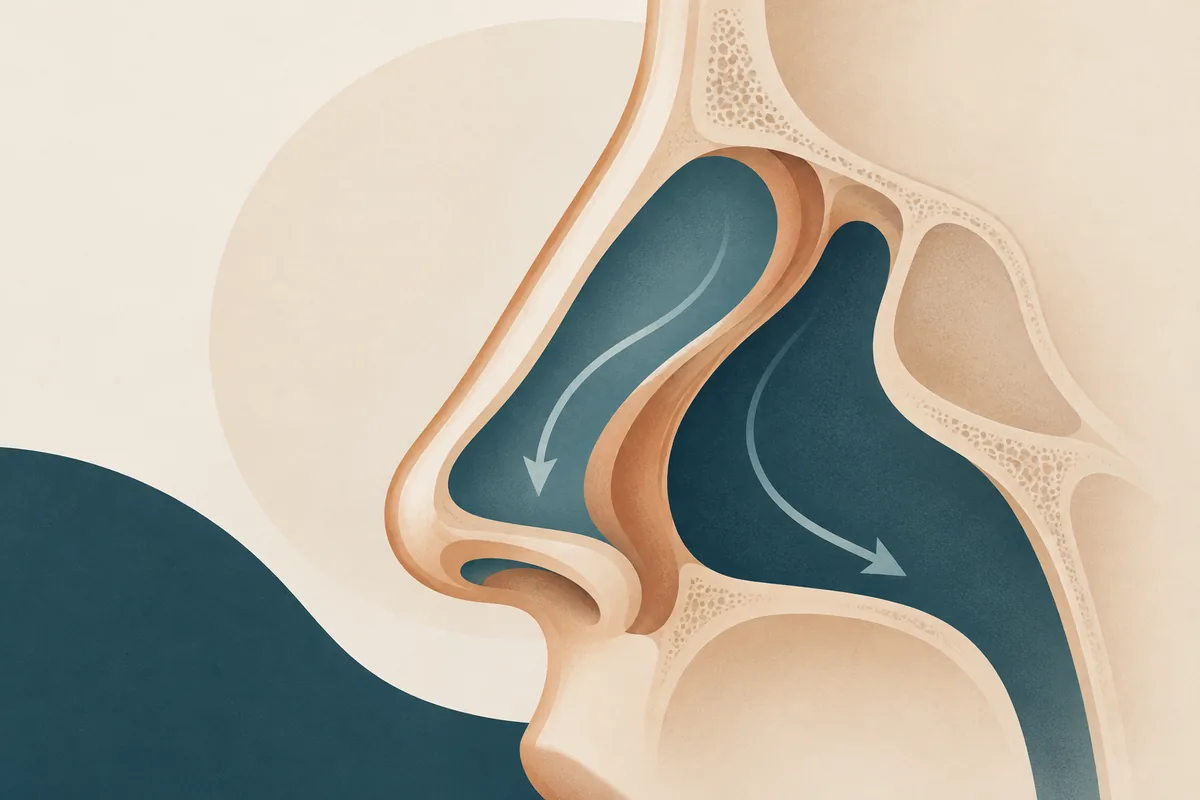
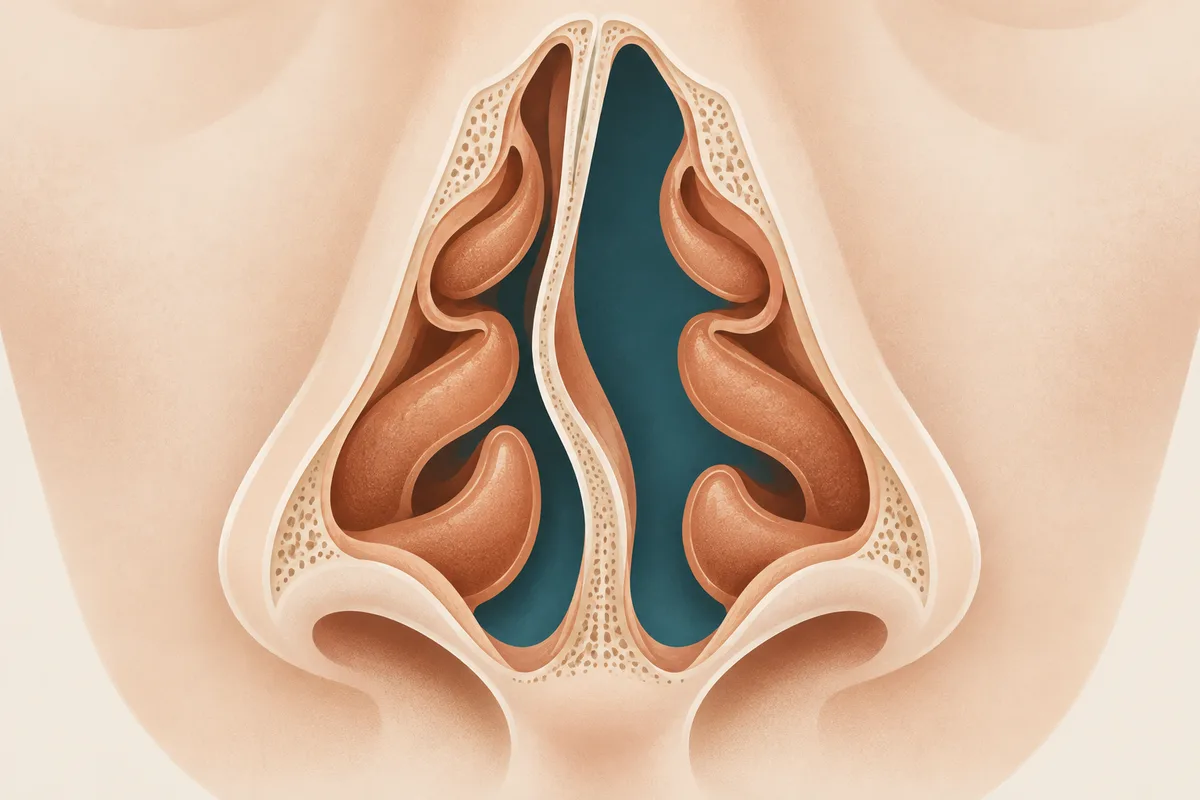
Versao 1.3: nova ilustracao da pagina de desvio de septo (corte frontal), no estilo do site.

diff --git a/doencas/desvio-de-septo/index.html b/doencas/desvio-de-septo/index.html
@@ -55,7 +55,7 @@
 <div class="split"><div>
 <p>O septo nasal é uma estrutura de cartilagem e osso que separa as duas fossas nasais. Um desvio pode ser de nascença, do crescimento ou resultado de traumas (incluindo os antigos, de infância, que ninguém lembra).</p>
 <p>Ter desvio de septo é muito comum e, por si só, não é doença. Ele só pede tratamento quando causa <strong>obstrução nasal persistente</strong> — nariz sempre mais entupido de um lado, dificuldade para dormir bem, boca aberta, ronco — ou quando contribui para sinusites de repetição e sangramentos.</p>
-</div><figure class="fig"><img src="/assets/v2/il2-desvio-septo.webp" alt="Ilustração de nariz em corte mostrando o septo desviado e os canais de ar assimétricos" loading="lazy"><figcaption>Ilustração: o septo desviado estreita a passagem do ar</figcaption></figure></div></div>
+</div><figure class="fig"><img src="/assets/v2/il2-desvio-septo.webp" alt="Ilustração de nariz em corte frontal mostrando o septo desviado para um lado e os canais de ar assimétricos" loading="lazy"><figcaption>Ilustração: o septo desviado estreita a passagem do ar</figcaption></figure></div></div>
 <div class="card"><h2>O que dizem os estudos</h2>
 <div class="estudos"><div class="stat"><div class="num">89,2%</div><div class="lbl">dos pacientes avaliados em serviços de ORL tinham algum grau de desvio de septo (estudo em 14 países)</div></div><div class="stat"><div class="num">20 pontos</div><div class="lbl">de vantagem média no escore de sintomas (SNOT-22) da septoplastia sobre o spray, aos 6 meses, em ensaio randomizado</div></div></div>
 <p>Para quem tem obstrução nasal por desvio de septo, um ensaio clínico randomizado com 378 adultos publicado no <em>BMJ</em> em 2023 comparou cirurgia (septoplastia) com tratamento medicamentoso (spray de corticoide e soro): aos seis meses, o grupo operado pontuou cerca de 20 pontos a menos (melhor) na escala de sintomas nasais SNOT-22 — uma diferença grande e significativa.</p></div>
